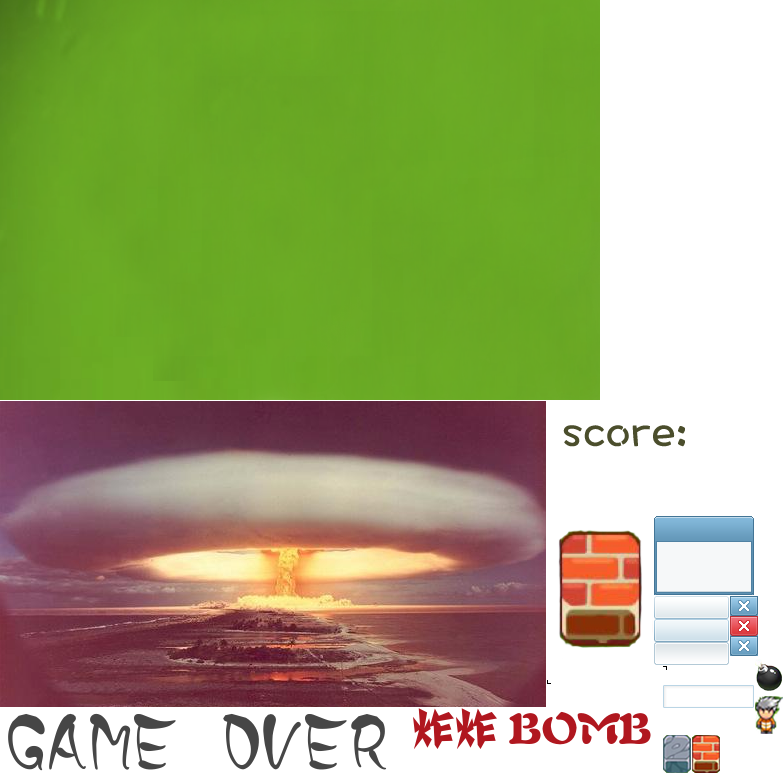
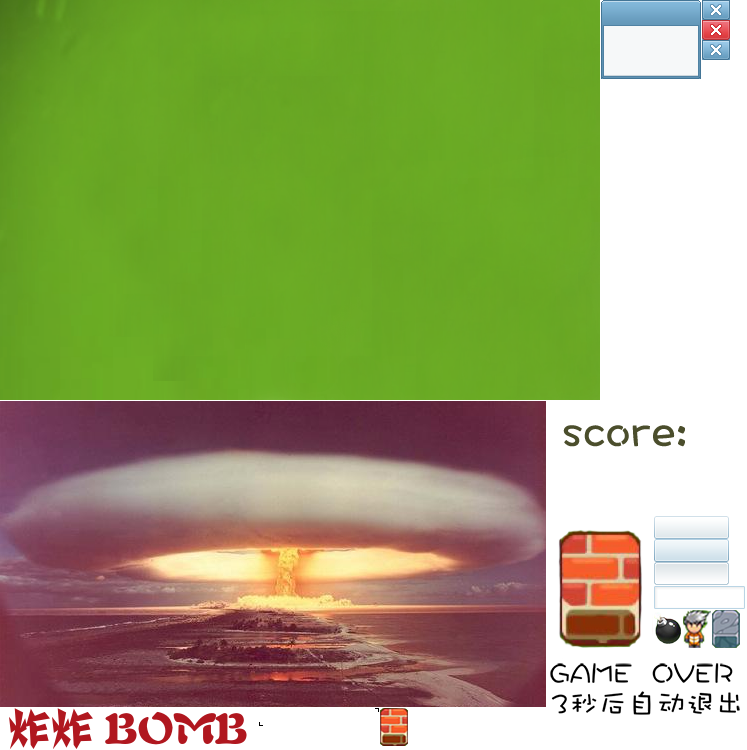
解决一个游戏over不退出的问题（优化）

Changed region(s): [[0.0, 0.0, 1.0, 1.0]]

diff --git a/bin/js/game/gameMain.js b/bin/js/game/gameMain.js
@@ -4,6 +4,7 @@ var gameMain = /** @class */ (function () {
         this._starty = 80;
         this._stricks = {};
         this._die = false;
+        this._timer = new Laya.Timer();
         this._players = new Array();
         server.on("user.JoinRep", this, this.handleJoinRep);
         server.on("game.GameMessageNtf", this, this.handleGameMessageNtf);
@@ -35,6 +36,7 @@ var gameMain = /** @class */ (function () {
     gameMain.prototype.handleGameEndNtf = function (msg) {
         this.showGameOver();
         console.log("游戏结束！");
+        this._timer.once(3000, this, this.closeBack);
     };
     gameMain.prototype.destroyBlock = function (blocks, index) {
         if (blocks && blocks[index]) {

diff --git a/src/game/gameMain.ts b/src/game/gameMain.ts
@@ -15,11 +15,15 @@ class gameMain{
     private _nickname : string;
     private _die : boolean;
 
+    private _timer : Laya.Timer;
+
     constructor(){
         this._startx = 90;
         this._starty = 80;
         this._stricks = {};
         this._die = false;
+
+        this._timer = new Laya.Timer();
 
         this._players = new Array<player>();
         server.on("user.JoinRep", this, this.handleJoinRep);
@@ -55,6 +59,7 @@ class gameMain{
     private handleGameEndNtf(msg:any){
         this.showGameOver();
         console.log("游戏结束！");
+        this._timer.once(3000, this, this.closeBack);
     }
 
     private destroyBlock(blocks, index){

diff --git a/bin/js/core/Define.js b/bin/js/core/Define.js
@@ -9,7 +9,7 @@ var Define = /** @class */ (function () {
     Define.STRICK = 2;
     Define.EMPTYPLACE = 3;
     Define.PLAYER = 4;
-    Define.DEBUG_NET = true;
+    Define.DEBUG_NET = false;
     return Define;
 }());
 //# sourceMappingURL=Define.js.map

diff --git a/src/core/Define.ts b/src/core/Define.ts
@@ -9,5 +9,5 @@ class Define{
     static STRICK:number = 2;
     static EMPTYPLACE:number = 3;
     static PLAYER:number = 4;
-    static DEBUG_NET:boolean = true;
+    static DEBUG_NET:boolean = false;
 }
